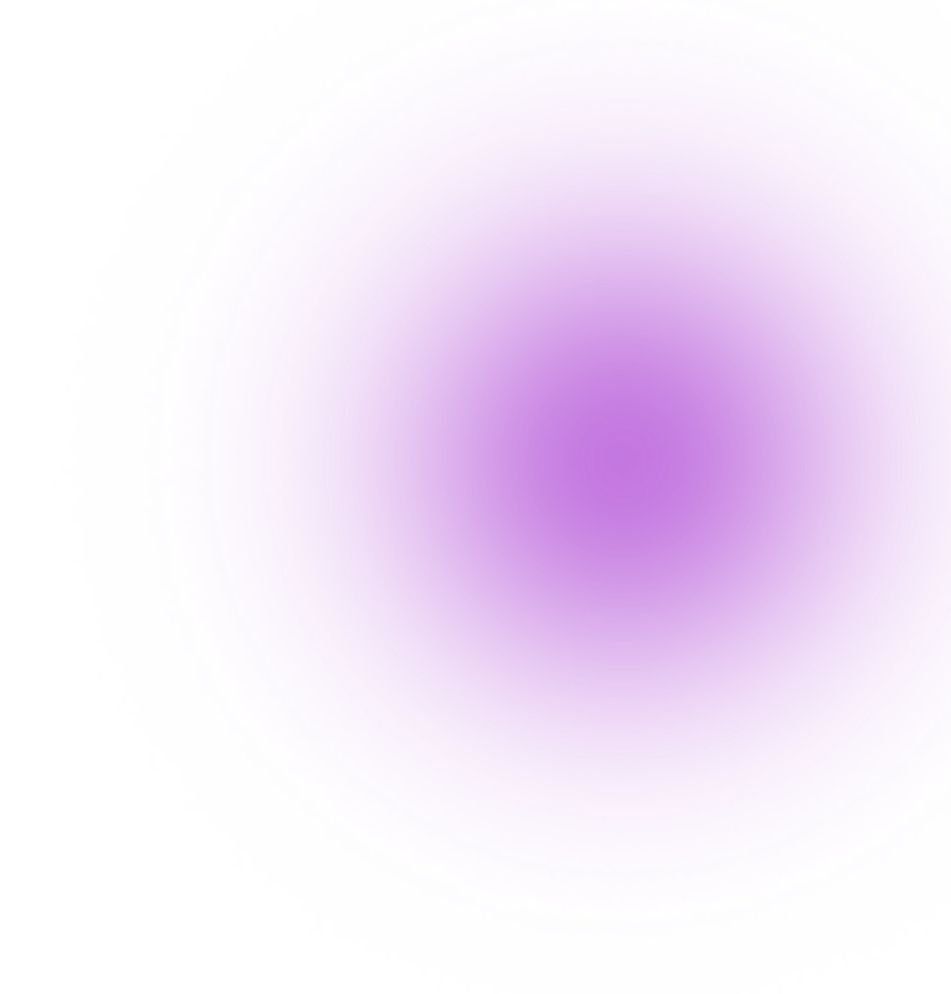
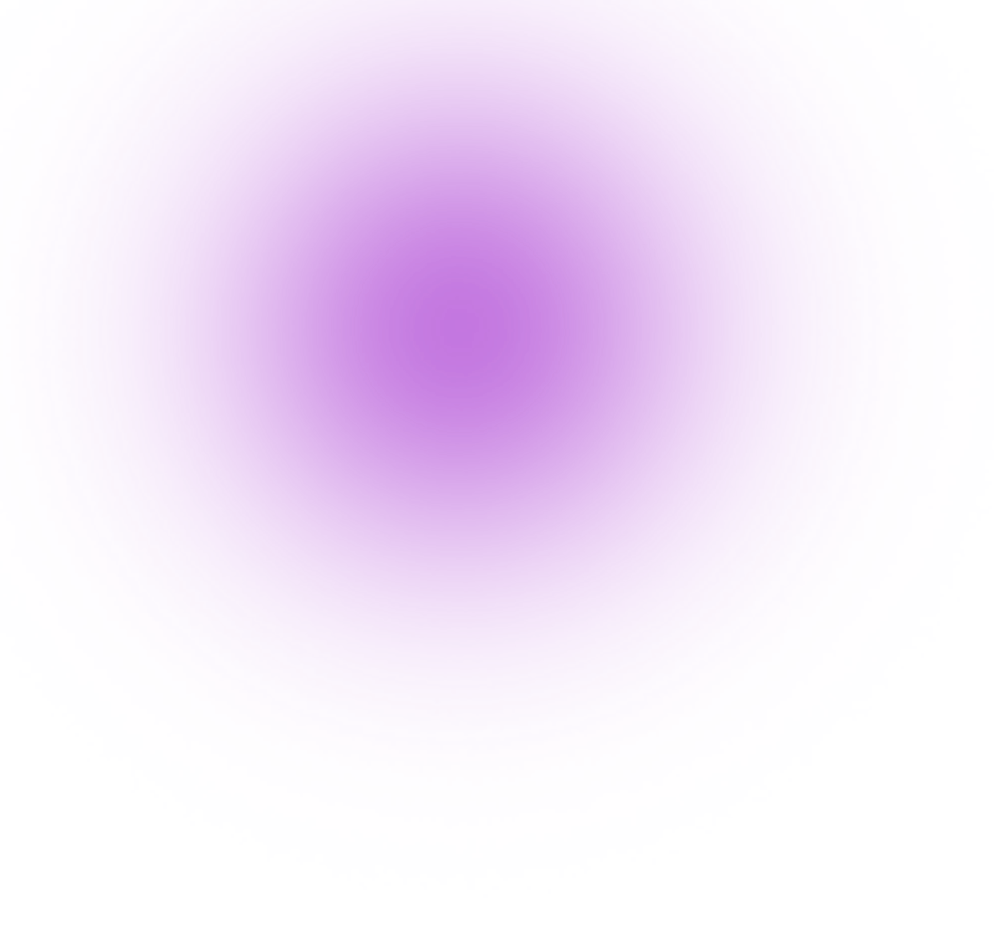
Adjust some styling

diff --git a/src/components/layout/footer.tsx b/src/components/layout/footer.tsx
@@ -6,13 +6,19 @@ import { ReactComponent as Instagram } from "@/assets/images/instagram.svg";
 import { ReactComponent as Phone } from "@/assets/images/phone.svg";
 import { ReactComponent as Location } from "@/assets/images/location.svg";
 import { Link } from "react-router-dom";
+import { motion } from "framer-motion";
 
 const Footer = () => {
 
     return (
         <footer className="py-10 sm:space-y-10 text-white">
             <div className="container grid grid-cols-3 sm:grid-cols-1 sm:gap-8 justify-items-center sm:justify-items-start py-4">
-                <div className="text-sm space-y-2">
+                <motion.div
+                    className="text-sm space-y-2"
+                    whileInView={{ x: 0, opacity: 1 }}
+                    viewport={{ once: true }}
+                    transition={{ delay: 0.3, duration: 1, ease: "easeIn" }}
+                    initial={{ x: -100, opacity: 0 }}>
                     <Logo />
                     <p className="">GetLinked tech Hackathon is a technology innovation program
                         established by a group of organizations with the aim of showcasing young and talented
@@ -20,13 +26,18 @@ const Footer = () => {
                     </p>
                     <div className="pt-10 space-x-3">
                         <span className="">Terms of use</span>
-                        <span className="w-[2px] h-[2px] bg-purple p-[1px]"></span>
+                        <span className="w-[2px] h-[2px] bg-heading-text p-[1px]"></span>
                         <span className="">Privacy Policy</span>
                     </div>
-                </div>
+                </motion.div>
 
-                <div className="space-y-3">
-                    <p className="text-purple font-semibold">Useful Links</p>
+                <motion.div
+                    className="space-y-3"
+                    whileInView={{ x: 0, opacity: 1 }}
+                    viewport={{ once: true }}
+                    transition={{ delay: 0.3, duration: 1, ease: "easeIn" }}
+                    initial={{ x: -100, opacity: 0 }}>
+                    <p className="text-heading-text font-semibold">Useful Links</p>
                     <div className="flex flex-col gap-y-2 text-sm">
                         <Link to="/">Overview</Link>
                         <Link to="/">Timeline</Link>
@@ -34,7 +45,7 @@ const Footer = () => {
                         <Link to="/register">Register</Link>
                     </div>
                     <div className="flex items-center gap-2">
-                        <p className="text-purple">Follow us</p>
+                        <p className="text-heading-text">Follow us</p>
                         <div className="flex items-center gap-2">
                             <Instagram className="w-4 h-4" />
                             <Twitter className="w-4 h-4" />
@@ -42,10 +53,15 @@ const Footer = () => {
                             <LinkedIn className="w-4 h-4" />
                         </div>
                     </div>
-                </div>
+                </motion.div>
 
-                <div className="space-y-3">
-                    <p className="text-purple font-semibold">Contact us</p>
+                <motion.div
+                    className="space-y-3"
+                    whileInView={{ x: 0, opacity: 1 }}
+                    viewport={{ once: true }}
+                    transition={{ delay: 0.3, duration: 1, ease: "easeIn" }}
+                    initial={{ x: -100, opacity: 0 }}>
+                    <p className="text-heading-text font-semibold">Contact us</p>
                     <div className="text-sm flex  gap-2">
                         <Phone className="w-4 h-4" />
                         <span className="">+234 81 659 60 182</span>
@@ -54,10 +70,10 @@ const Footer = () => {
                         <Location />
                         <span className="w-[6rem] self-cnter">27, Alara street, Yaba 100012 Lagos State</span>
                     </div>
-                </div>
+                </motion.div>
             </div>
             <p className="text-center text-sm">All rights reserved © getlinked ltd.</p>
-        </footer>
+        </footer >
     )
 }
 

diff --git a/src/components/titleSection.tsx b/src/components/titleSection.tsx
@@ -1,8 +1,8 @@
 import HackathonGuy from "@/assets/images/hackathon-guy.png";
 import { ReactComponent as CountDown } from "@/assets/images/countdown-time.svg";
-// import { ReactComponent as PurpleLensFlare } from "@/assets/images/Purple-Lens-Flare-PNG.svg";
+import { ReactComponent as PurpleLensFlare } from "@/assets/images/Purple-Lens-Flare-PNG.svg";
 import { ReactComponent as Curve } from "@/assets/images/curve.svg";
-// import flare from "@/assets/images/Purple-Lens-Flare-PNG.png";
+import flare from "@/assets/images/Purple-Lens-Flare-PNG.png";
 import star from "@/assets/images/star.png";
 // import starGra from "@/assets/images/sata-gra.png";
 import title from "@/assets/images/title.png";
@@ -14,23 +14,24 @@ import { Link } from "react-router-dom";
 const TitleSection = () => {
 
     return (
-        <section className="sm:pt-8">
-            <img className="absolute left-40 top-10 sm:top-28 smw-6 sm:h-6" src={star} alt="" />
-            {/* <img className="absolute -bottom-[50%]  w-[50rem] h-[50rem] transform rotate-90" src={flare} alt="" /> */}
+        <section className="relative sm:pt-8">
+            <img className="absolute left-40 top-10 sm:top-36 smw-6 sm:h-6" src={star} alt="" />
+            <img className="absolute bottom-[30%] sm:bottom-[52%] left-10 sm:-left-10  w-[100vh] sm:w-full z-[-1] " src={flare} alt="" />
             <motion.div
                 className="flex flex-col gap-1 items-end md:items-center px-[3rem] sm:px-4 py-8 md:py-12"
                 initial={{ y: 100, opacity: 0 }}
                 animate={{ y: 0, opacity: 1 }}
                 transition={{ delay: 0.3, duration: 1, ease: "easeIn" }}>
-                <h1 className="text-4xl sm:text-xl text-white italic tracking-wide sm:text-center md:text-center">Igniting a revolution in HR Innovation</h1>
-                <Curve className="sm:w-32" />
+                <h1 className="text-4xl sm:text-lg text-white italic tracking-wide sm:text-center md:text-center">Igniting a revolution in HR Innovation</h1>
+                <Curve className="sm:w-32 sm:self-center" />
             </motion.div>
-            <div className="grid grid-cols-2 sm:grid-cols-1 container">
+            <div className="grid grid-cols-2 sm:grid-cols-1 container sm:px-8">
                 <motion.div
-                    className="relative w-full space-y-12 sm:py-8 sm:-mt-10 bg-[url('./assets/images/Purple-Lens-Flare-PNG.png') "
+                    className="relative w-full space-y-12 flex flex-col sm:py-8 sm:-mt-10 bg-[url('./assets/images/Purple-Lens-Flare-PNG.png') "
+                    whileInView={{ y: 0, opacity: 1 }}
+                    viewport={{ once: true }}
+                    transition={{ delay: 0.3, duration: 1, ease: "easeIn" }}
                     initial={{ y: 100, opacity: 0 }}
-                    animate={{ y: 0, opacity: 1 }}
-                    transition={{ delay: 0.5, duration: 1, ease: "easeIn" }}
                 >
                     {/* <PurpleLensFlare className="absolute bottom-[40%] -left-[0%] h-4/5 w-4/5  " /> */}
                     <div className="text-white space-y-6 flex flex-col sm:items-center">
@@ -42,10 +43,10 @@ const TitleSection = () => {
                             <Button className="bg-gradient-to-r from-peach to-purple px-4 w-32 rounded-[.2rem] btn-border-gradient z-[100] " >Register</Button>
                         </Link>
                     </div>
-                    <CountDown />
+                    <CountDown className="sm:self-center" />
                 </motion.div>
                 <div className="relative justify-self-end w-full -mr-20 sm:mr-0">
-                    {/* <PurpleLensFlare className="absolute -bottom-[27%] -right-[80%] " /> */}
+                <img className="absolute bottom-[10%] -right-10 w-[100vh] rotate-90 z-[-1] sm:hidden " src={flare} alt="" />
                     <motion.img
                         className="w-[150%] h-full justify-self-end align-self-center sm:hidden"
                         src={HackathonGuy}

diff --git a/src/pages/register.tsx b/src/pages/register.tsx
@@ -8,6 +8,7 @@ import { useRegisterForm } from "@/hooks/useForm";
 import { toast } from "react-toastify";
 import "react-toastify/dist/ReactToastify.css";
 import { initialRegisterData, categories } from "@/utils/formData";
+import { baseUrl } from "@/utils/baseUrl";
 
 
 
@@ -22,7 +23,6 @@ const Register = () => {
     const register = async () => {
 
         const id = toast.loading("Your data is being registered...");
-        const baseUrl = "https://backend.getlinked.ai";
 
         try {
             const categoryId = categories.find(category => category.category === userData.category)?.id;
@@ -55,7 +55,7 @@ const Register = () => {
             setIsSuccess(true);
             setUserData(initialRegisterData);
         } catch (err: any) {
-            toast.update(id, { render: err.message, type: "error", isLoading: false, autoClose: 2000 });
+            toast.update(id, { render: err.message, type: "error", isLoading: false, autoClose: 3000 });
             console.error(err);
             setIsSuccess(false);
         }
@@ -67,22 +67,11 @@ const Register = () => {
         await register();
     }
 
-    // useEffect(() => {
-    //     const baseUrl = "https://backend.getlinked.ai";
-
-    //     const getList = async () => {
-
-    //         const response = await fetch(`${baseUrl}/hackathon/categories-list`);
-    //         const data = response.json();
-    //         console.log(data);
-    //     }
-    //     getList();
-    // }, [])
 
     return (
         <>
-            {isSuccess && <Success />}
-            <section className="container grid grid-cols-2 md:grid-cols-1 sm:grid-cols-1 gap-x-8 sm:gap-x-0 my-10 sm:my-4  w-full">
+            {isSuccess && <Success onClose={() => setIsSuccess(false)} />}
+            <section className="container sm:px-6 grid grid-cols-2 md:grid-cols-1 sm:grid-cols-1 gap-x-8 sm:gap-x-0 my-10 sm:my-4  w-full">
                 <motion.div
                     className="justify-self-start self-center"
                     initial={{ y: 100, opacity: 0 }}

diff --git a/src/components/rulesSection.tsx b/src/components/rulesSection.tsx
@@ -7,13 +7,13 @@ import star from "@/assets/images/star.png";
 const RulesSection = () => {
 
     return (
-        <section className="container relative py-10 sm:py-8 grid grid-cols-2 sm:grid-cols-1 gap-12">
+        <section className="container w-full sm:px-8 relative py-10 sm:py-8 grid grid-cols-2 sm:grid-cols-1 gap-12 ">
             <img className="absolute bottom-40 sm:top-20 right-[50%] sm:left-8 sm:w-6 sm:h-6" src={star} alt="" />
             {/* <PurpleLensFlare className="absolute -top-10 -left-10  " /> */}
             {/* <PurpleLensFlare className="absolute -bottom-50 right-0 ml-40  " /> */}
             {/* <StarGra className="absolute left-5 w-16 h-16 z-[100] " /> */}
             {/* <StarPu className="absolute right-60" /> */}
-            <div className="space-y-5 self-center max-w-lg sm:text-center sm:row-start-2 sm:row-end-3 ">
+            <div className="space-y-5 w-ful justify-self-end self-center max-w-lg sm:text-center sm:row-start-2 sm:row-end-3 ">
                 <motion.div
                     className="space-y-2"
                     whileInView={{ x: 0, opacity: 1 }}
@@ -36,12 +36,12 @@ const RulesSection = () => {
                 </motion.p>
             </div>
             <motion.div
-                className="w-full  justify-self-end"
+                className="w-ful justify-self-end"
                 whileInView={{ x: 0, opacity: 1 }}
                 viewport={{ once: true }}
                 transition={{ delay: 0.3, duration: 1, ease: "easeIn" }}
                 initial={{ x: 100, opacity: 0 }}>
-                <img className="sm:row-start-1 sm:row-end-2 sm:w-full" src={rules} />
+                <img className="sm:row-start-1 sm:row-end-2 sm:w-full w-" src={rules} />
             </motion.div>
         </section>
     )

diff --git a/src/pages/contact.tsx b/src/pages/contact.tsx
@@ -14,6 +14,7 @@ import { initialContactData } from "@/utils/formData";
 import { FormEvent } from "react";
 import { toast } from "react-toastify";
 import "react-toastify/dist/ReactToastify.css";
+import { baseUrl } from "@/utils/baseUrl";
 
 
 
@@ -27,10 +28,8 @@ const Contact = () => {
     const sendContactInfo = async () => {
 
         const id = toast.loading("Sending your information...");
-        const baseUrl = "https://backend.getlinked.ai";
 
         try {
-            console.log(userData)
             const payload = {
                 "email": userData.email,
                 "phone_number": userData.phoneNumber,
@@ -46,7 +45,6 @@ const Contact = () => {
             });
 
             const data = await response.json();
-            console.log(data);
 
             if (!response.ok) {
                 throw new Error(data.message || 'Something went wrong!');
@@ -66,7 +64,7 @@ const Contact = () => {
     }
  
     return (
-        <section className="container grid grid-cols-2 sm:grid-cols-1 md:grid-cols-1 gap-x-20 my-10 items-center shadow-md w-full">
+        <section className="container sm:px-8 grid grid-cols-2 sm:grid-cols-1 md:grid-cols-1 gap-x-20 my-10 items-center shadow-md w-full">
             <Back className="hidden sm:block md:block mb-8 w-8 h-8" onClick={() => navigate(-1)} />
             {/* <PurpleLensFlare className="absolute top-[20%] -left-[20%] " /> */}
             {/* <PurpleLensFlare className="absolute -bottom-[80%] -right-[30%] " /> */}

diff --git a/src/components/ui/modals/success.tsx b/src/components/ui/modals/success.tsx
@@ -27,8 +27,11 @@ const dropIn = {
     }
 }
 
+interface SuccessProps {
+    onClose: () => void;
+}
 
-const SuccessOverlay = () => {
+const SuccessOverlay = ({ onClose }: SuccessProps) => {
 
     return (
         <motion.div
@@ -44,23 +47,22 @@ const SuccessOverlay = () => {
                     <h1 className="">you have successfully registered!</h1>
                 </div>
                 <p className="text-white text-sm w-[50%] sm:w-full text-center mx-auto">Yes it was easy and you did it!. check your mail box for next step.</p>
-                <Button className="bg-gradient-to-r from-peach to-purple px-4 h-12 w-full text-white rounded-[.2rem] btn-border-gradient " >Back</Button>
+                <Button onClick={onClose} className="bg-gradient-to-r from-peach to-purple px-4 h-12 w-full text-white rounded-[.2rem] btn-border-gradient " >Back</Button>
             </div>
         </motion.div>
     )
 }
 
-const Success = () => {
+const Success = ({ onClose }: SuccessProps) => {
 
     const root = document.getElementById('success-modal-root') as HTMLElement;
 
     return (
         <React.Fragment>
-            {/* <Backdrop /> */}
             {ReactDOM.createPortal(
                 <>
                     <Backdrop />
-                    <SuccessOverlay />
+                    <SuccessOverlay onClose={onClose} />
                 </>, root)}
         </React.Fragment>
     )

diff --git a/src/hooks/useForm.ts b/src/hooks/useForm.ts
@@ -1,6 +1,6 @@
 import { ChangeEvent, useState } from "react";
 
-export interface InitialRegisterData {
+export interface RegisterData {
     teamName: string;
     phoneNumber: string;
     email: string;
@@ -10,7 +10,7 @@ export interface InitialRegisterData {
     privacyAccepted: boolean;
 }
 
-export interface InitialContactData {
+export interface ContactData {
     email: string;
     phoneNumber: string;
     firstName: string;
@@ -20,9 +20,9 @@ export interface InitialContactData {
 
 
 
-export const useRegisterForm = (initialUserData: InitialRegisterData) => {
+export const useRegisterForm = (initialUserData: RegisterData) => {
 
-    const [userData, setUserData] = useState<InitialRegisterData>(initialUserData);
+    const [userData, setUserData] = useState<RegisterData>(initialUserData);
 
 
     const handleChange = (event: ChangeEvent<HTMLInputElement | HTMLSelectElement>) => {
@@ -42,9 +42,9 @@ export const useRegisterForm = (initialUserData: InitialRegisterData) => {
 
 
 
-export const useContactForm = (initialUserData: InitialContactData) => {
+export const useContactForm = (initialUserData: ContactData) => {
 
-    const [userData, setUserData] = useState<InitialContactData>(initialUserData);
+    const [userData, setUserData] = useState<ContactData>(initialUserData);
 
 
     const handleChange = (event: ChangeEvent<HTMLInputElement | HTMLTextAreaElement>) => {

diff --git a/src/components/faqs.tsx b/src/components/faqs.tsx
@@ -20,7 +20,7 @@ import starGra from "@/assets/images/star-gra.png";
 const FaQs = () => {
 
     return (
-        <section className="container relative py-20 sm:py-8 w-full grid grid-cols-2 sm:grid-cols-1 gap-20">
+        <section className="container sm:px-8 relative py-20 sm:py-8 w-full grid grid-cols-2 sm:grid-cols-1 gap-20">
             <img className="absolute top-8 sm:top-0 left-10 sm:w-4 sm:h-4" src={starPu} alt="" />
             <img className="absolute right-96 sm:right-20 top-28 sm:top-48" src={starGra} alt="" />
             <img className="absolute right-[40%] sm:left-10 top-40" src={starGra} alt="" />
@@ -73,7 +73,12 @@ const FaQs = () => {
                     <QuestionMark className="-mt-10" />
                     <QuestionMarkSm />
                 </div>
-                <img className="" src={cwork} alt="" />
+                <motion.img
+                    className="" src={cwork} alt=""
+                    whileInView={{ x: 0, opacity: 1 }}
+                    viewport={{ once: true }}
+                    transition={{ delay: 0.3, duration: 1, ease: "easeIn" }}
+                    initial={{ x: -100, opacity: 0 }} />
             </div>
         </section >
     )

diff --git a/src/components/criteriaSection.tsx b/src/components/criteriaSection.tsx
@@ -10,7 +10,7 @@ import starPu from "@/assets/images/star-pu.png";
 const CriteriaSection = () => {
 
     return (
-        <section className="container relative py-10 sm:py-12 grid grid-cols-2 sm:grid-cols-1 gap-12">
+        <section className="container sm:px-8 relative py-10 sm:py-12 grid grid-cols-2 sm:grid-cols-1 gap-12">
             <img className="absolute top-8 sm:top-0 left-36 sm:w-6 sm:h-6" src={starPu} alt="" />
             <div className="absolute sm:hidden top-20 left-36 z-[-1] bg-gradient-to-r from-peach to-purple p-12 rounded-full"></div>
             <img className="absolute right-[52%] sm:right-10 bottom-10 sm:bottom-0 sm:w-4 sm:h-4" src={star} alt="" />

diff --git a/src/components/rewards.tsx b/src/components/rewards.tsx
@@ -8,7 +8,7 @@ import starPu from "@/assets/images/star-pu.png";
 const Rewards = () => {
 
     return (
-        <section className="relative container py-10 sm:py-8 grid grid-cols-[4fr_6fr] sm:grid-cols-1 gap-12">
+        <section className="relative container sm:px-8 py-10 sm:py-8 grid grid-cols-[4fr_6fr] sm:grid-cols-1 gap-12">
             <img className="absolute top-10 left-44 sm:left-10 w-6 h-6 sm:w-4 sm:h-4" src={starPu} alt="" />
             <img className="absolute right-32 sm:right-10 bottom-[50%] sm:w-4 sm:h-4" src={star} alt="" />
             <img className="absolute right-[50%] sm:left-10 bottom-[65%] sm:w-4 sm:h-4" src={star} alt="" />

diff --git a/src/components/timeline.tsx b/src/components/timeline.tsx
@@ -6,7 +6,7 @@ import starPu from "@/assets/images/star-pu.png";
 const Timeline = () => {
 
     return (
-        <section className="container relative grid pt-10 pb-20 space-y-20 w-full sm:justify-items-start">
+        <section className="container sm:px-8 relative grid pt-10 pb-20 space-y-20 w-full sm:justify-items-start">
             <img className="absolute top-72 sm:top-56 left-44 sm:w-6 sm:h-6" src={starPu} alt="" />
             <img className="absolute right-32 sm:right-10 bottom-[50%] sm:bottom-[55%] sm:w-4 sm:h-4" src={star} alt="" />
             <div className="max-w-xs text-center text-white justify-self-center space-y-3">

diff --git a/src/components/layout/navbar.tsx b/src/components/layout/navbar.tsx
@@ -24,7 +24,7 @@ const Navbar = () => {
     return (
         <>
             {isVisible && <NavMenu onClose={() => setIsVisible(false)} />}
-            <header className={`container border-solid border-b-[1px] border-purple w-full ${(isRegisterPage || isContactPage) && "sm:hidden md:hidden"}`} >
+            <header className={`container sm:px-8 border-solid border-b-[1px] border-purple w-full ${(isRegisterPage || isContactPage) && "sm:hidden md:hidden"}`} >
                 <nav className="grid grid-cols-[5.5fr_4.5fr] sm:grid-cols-2 py-8">
                     <div className="">
                         <Logo className="sm:w-4/5" />
